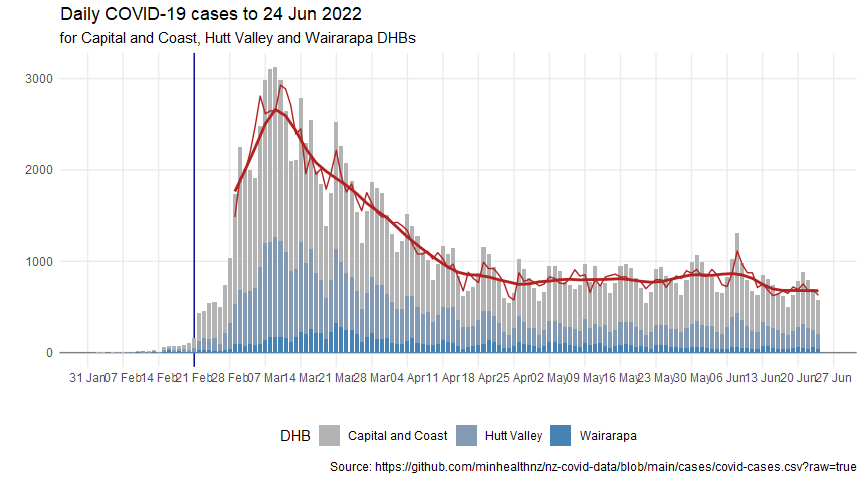
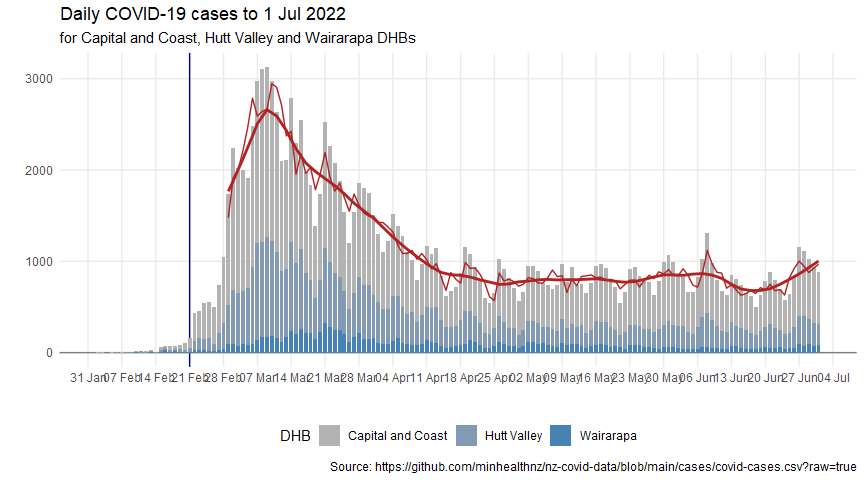
update for 20220702

Changed region(s): [[0.0625, 0.125, 1.0, 0.8125], [0.3125, 0.0, 0.4375, 0.0625], [0.0312, 0.3438, 0.0625, 0.375]]

diff --git a/covid-post-peak-analysis.md b/covid-post-peak-analysis.md
@@ -30,7 +30,7 @@ cases_df <- read_csv(case_data_url) %>%
 
     ## Warning: One or more parsing issues, see `problems()` for details
 
-    ## Rows: 1303779 Columns: 7
+    ## Rows: 1352688 Columns: 7
 
     ## -- Column specification --------------------------------------------------------
     ## Delimiter: ","
@@ -49,7 +49,7 @@ cases_by_dhb_df <- cases_df %>%
   count(report_date, dhb, case_status)
 ```
 
-## Wellington figures up to 24 Jun 2022
+## Wellington figures up to 1 Jul 2022
 
 Including Hutt and Wairarapa as well as CCDHB.
 
@@ -168,7 +168,7 @@ maxima <- dhb_cases_after_transform_stl_df %>%
 
 Looking at raw case numbers, the peak on 9 Mar 2022 was about 6.2 times the lowest recent value.
 
-But when adjusting for the weekly pattern, it was 5.1 times the lowest recent adjusted value, and the trend was about 3.9 times the lowest recent trend line.
+But when adjusting for the weekly pattern, it was 5.2 times the lowest recent adjusted value, and the trend was about 3.9 times the lowest recent trend line.
 
 While the trend might be over-smoothed, the peak coincinded with the strong weekly pattern, suggesting that the apparent difference between the peak and now was exaggerated by weekly differences in reporting.
 
